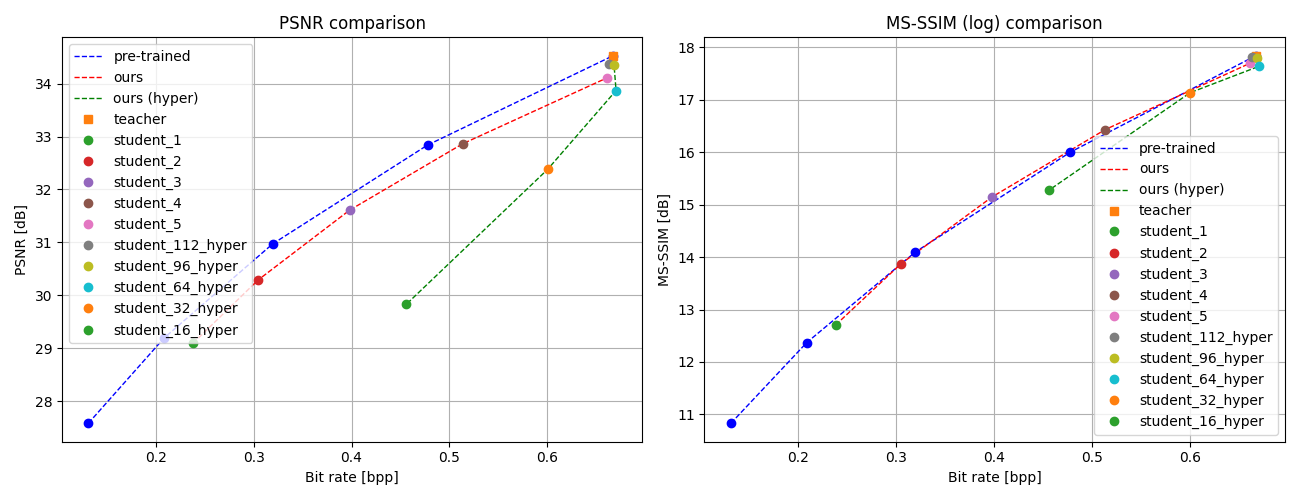
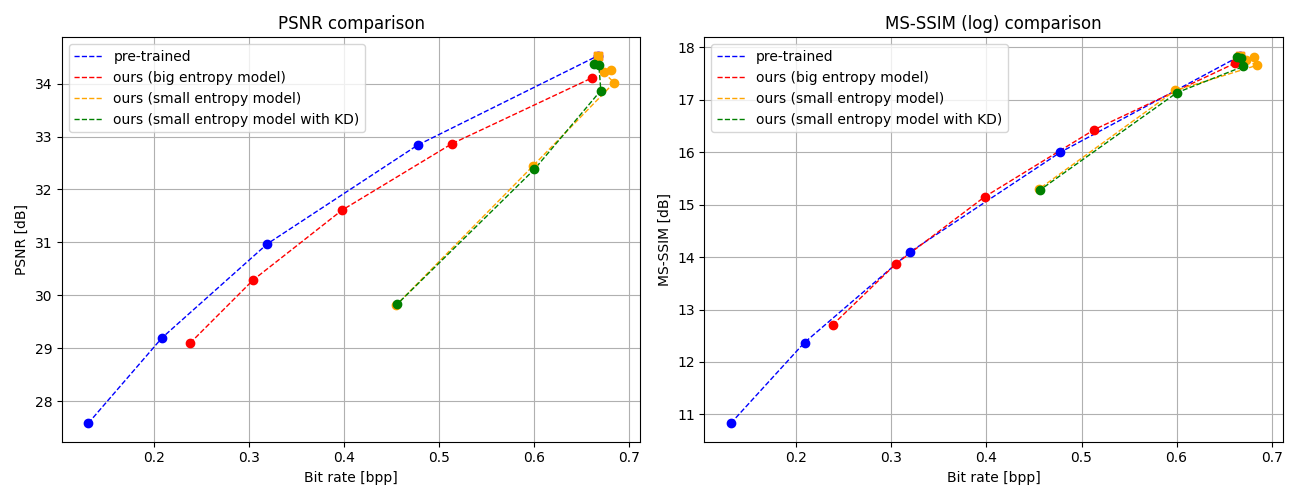
Test hyper KD models and create figures for paper

diff --git a/hyper_kd_lic_experiments/test_channels_no_energy.py b/hyper_kd_lic_experiments/test_channels_no_energy.py
@@ -142,8 +142,18 @@ M = 192
 #   - 355807 (64) 24h
 #   - 352578 (96) 99h
 #   - 352563 (112) 99h
+# Ns = [128, 112, 96, 64, 32, 16]
+# ids = [None, 352563, 352578, 355807, 355808, 355809]
+# TEACHER_QUALITY = 5
+
+# ScaleHyperPrior models (image compression, pre-trained teacher quality 5, student KD with RD loss and latent loss MSE + (hyper-latent loss MSE), lmbda=(0.3, 0.0, 0.3, 0.4, 0.025))
+#   - 361263 (16) 24h
+#   - 360681 (32) 24h
+#   - 360680 (64) 24h
+#   - 360679 (96) 24h
+#   - 360678 (112) 24h
 Ns = [128, 112, 96, 64, 32, 16]
-ids = [None, 352563, 352578, 355807, 355808, 355809]
+ids = [None, 360678, 360679, 360680, 360681, 361263]
 TEACHER_QUALITY = 5
 
 networks = {

diff --git a/hyper_kd_lic_experiments/train_kd.py b/hyper_kd_lic_experiments/train_kd.py
@@ -352,9 +352,9 @@ if __name__ == "__main__":
         batch_size=16,
         learning_rate=1e-4,
         criterion="KDLoss_RD_MSE",
-        kd_l_lmbda=0.2, # 0.2
-        kd_hl_lmbda=0.2, # 0.2
-        kd_o_lmbda=0.2, # 0.2
+        kd_l_lmbda=0.3, # 0.2
+        kd_hl_lmbda=0.0, # 0.2
+        kd_o_lmbda=0.3, # 0.2
         o_lmbda=0.4, # 0.4
         rd_lmbda=0.025,
         save_path=f"train_res/{job_id}"
